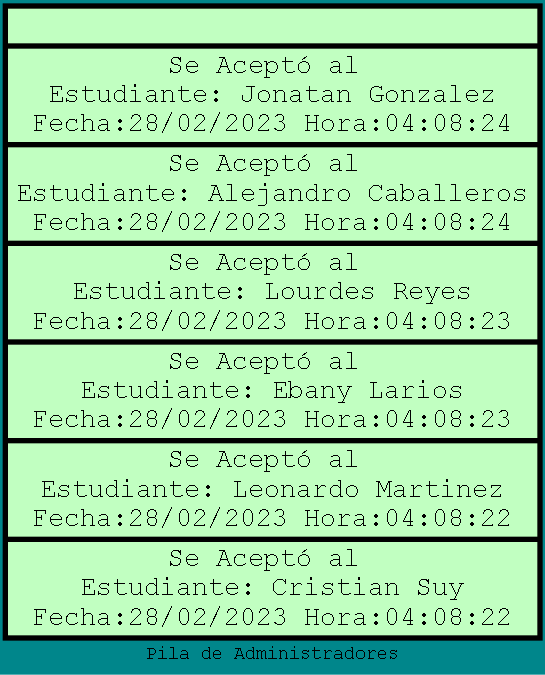
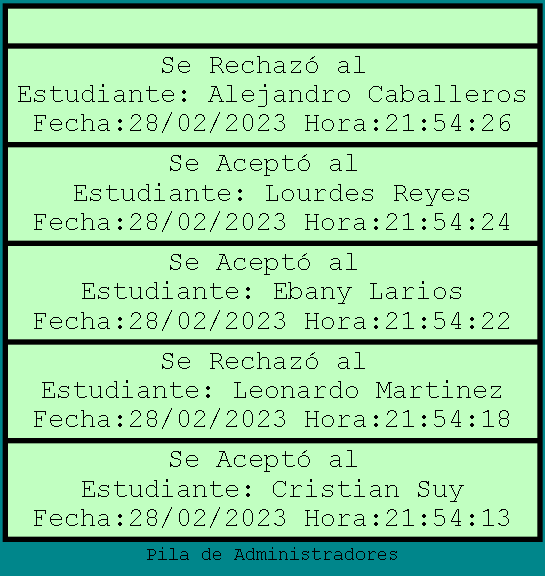
terminando reporte de Lista D Enlazada

Changed region(s): [[0.0, 0.0625, 0.9982, 1.0], [0.0, 0.0, 0.9982, 0.0312]]

diff --git a/EDD_Proyecto1_Fase1/Code/Structs/DoubleList.go b/EDD_Proyecto1_Fase1/Code/Structs/DoubleList.go
@@ -124,7 +124,6 @@ func ContenidoPila(pila *PilaStudent) string {
 			aux = aux.siguiente
 		}
 	} else {
-		content = "|       |"
 	}
 	return content
 
@@ -198,22 +197,23 @@ func GenerarJson(lista *DoubleList) {
 	EscribirArchivoJson(contenido)
 }
 
-func (l *DoubleList) GraficarListaDoble() string {
-
+func (l *DoubleList) GraficarListaDobleConPila() string {
 	texto := "digraph lista{\n"
 	texto += "fontname=\"Courier New\";\n"
 	texto += "fontsize=\"20pt\";\n"
-	texto += "label = \"Reporte Estudiantes en el Sistema\";\n"
 	texto += "bgcolor=\"paleturquoise\";\n"
-	texto += "{rank=same;\n"
 	texto += "node[shape=folder ,fontsize=\"20pt\",penwidth=4,fontname=\"Courier New\",style=\"filled\",fillcolor=\"lavenderblush1\" ]; \n"
 
 	aux := l.Inicio
-	aux2 := l.Inicio.pila.Primero
+
+	textogg := "{rank = same "
 	for i := 0; i < l.Longitud; i++ {
 		texto = texto + "nodo" + strconv.Itoa(i) + " [label=\"" + aux.studentt.FirstName + " " + aux.studentt.LastName + " \\n " + aux.studentt.Carnet + "\"];\n"
 		aux = aux.siguiente
+		textogg = textogg + "nodo" + strconv.Itoa(i) + ";"
+
 	}
+	texto += textogg + "};\n"
 
 	for j := 0; j < l.Longitud-1; j++ {
 		texto += "nodo" + strconv.Itoa(j) + "->nodo" + strconv.Itoa(j+1) + ";\n"
@@ -223,24 +223,25 @@ func (l *DoubleList) GraficarListaDoble() string {
 		texto += "nodo" + strconv.Itoa(k+1) + "->nodo" + strconv.Itoa(k) + ";\n"
 	}
 
-	texto += "{rank=same;\n"
-	texto += "rankdir=LR;\n"
-	texto += "node[shape=record ,fontsize=\"20pt\",penwidth=4,fontname=\"Courier New\",style=\"filled\",fillcolor=\"lavenderblush1\" ]; \n"
+	aux = l.Inicio
 
 	for m := 0; m < l.Longitud; m++ {
-		texto += "nodeP" + strconv.Itoa(m) + "[label=\"" + "{"
-		for n := 0; n < l.Inicio.pila.Longitud; n++ {
-			texto = texto + "|" + aux2.hora
-
-		}
-		texto += "}\"]; \n"
-		aux2 = aux2.siguiente
+		texto += "subgraph cluster" + strconv.Itoa(m) + "{\n"
+		texto += "pencolor=transparent;\n"
+		texto += "node[shape=folder ,fontsize=\"20pt\",penwidth=4,fontname=\"Courier New\",style=\"filled\",fillcolor=\"lavenderblush1\" ]; \n"
+		texto += "nodo" + strconv.Itoa(m) + ";\n"
+		//texto += "label = \"" + aux.studentt.FirstName + " " + aux.studentt.LastName + "\";\n"
+		texto += "color=blue;\n"
+		texto += "nodo" + strconv.Itoa(m) + "->nodo" + strconv.Itoa(m) + "pila;\n"
+		texto += "nodo" + strconv.Itoa(m) + "pila [label=\" " + ContenidoPilaG(aux.pila) + "\"];\n"
+		texto += "}\n"
+		aux = aux.siguiente
 	}
 
 	texto += "}"
 	texto += "}"
-	texto += "}"
 	return texto
+
 }
 
 func GraficarLD(texto string) {
@@ -250,4 +251,20 @@ func GraficarLD(texto string) {
 	CrearArchivo(nombre_archivo)
 	EscribirArchivo(texto, nombre_archivo)
 	execcute(nombre_imagen, nombre_archivo)
+}
+
+func ContenidoPilaG(pila *PilaStudent) string {
+	content := ""
+	aux := pila.Primero
+	if aux != nil {
+		for aux != nil {
+			content += " | " + aux.hora + " | \\n"
+			content += "_________________" + "\\n "
+			aux = aux.siguiente
+		}
+
+	} else {
+	}
+	return content
+
 }

diff --git a/EDD_Proyecto1_Fase1/Code/main.go b/EDD_Proyecto1_Fase1/Code/main.go
@@ -60,11 +60,11 @@ func Login() {
 	if user == "admin" && pass == "admin" {
 		menuAdmin()
 	} else if studenActual != nil {
-		fmt.Println("Bienvenido ", studenActual.FirstName, " ", studenActual.LastName)
 		menuStudent(studenActual.Carnet, studenActual.FirstName, studenActual.LastName)
+		fmt.Println("Bienvenido ", studenActual.FirstName, " ", studenActual.LastName)
 
 	} else {
-		fmt.Println("Usuario o contraseña incorrecta")
+		fmt.Println("Usuario o contraseña incorrecta :( ")
 	}
 }
 
@@ -181,8 +181,7 @@ func menuReportes() {
 		fmt.Scanln(&op)
 		switch op {
 		case 1:
-
-			Structs.GraficarLD(ListaDobleGlobal.GraficarListaDoble())
+			Structs.GraficarLD(ListaDobleGlobal.GraficarListaDobleConPila())
 			fmt.Println("$: Realizando reporte de estudiantes aceptados... :$")
 		case 2:
 			ColaGlobal.Graficar()
@@ -205,7 +204,7 @@ func miniMenuPendientes() {
 	op := 0
 	for !out {
 		fmt.Println("$:° ° ° ° °  Pendientes : ", ColaGlobal.Longitud, "° ° ° ° °:$")
-		fmt.Print("$: Estudiante actual: ")
+		fmt.Print("$: ")
 		ColaGlobal.MostrarPrimero2()
 		fmt.Println("$:° ° °   1. Aceptar Estudiante    ° ° °:$")
 		fmt.Println("$:° ° °   2. Rechazar Estudiante   ° ° °:$")
@@ -215,14 +214,14 @@ func miniMenuPendientes() {
 		fmt.Scanln(&op)
 		switch op {
 		case 1:
-			fmt.Println("$: Aceptando Estudiante... :$")
 			PilaAdminGlobal.Puush("Se Aceptó al \n \\nEstudiante: " + ColaGlobal.MostrarPrimero().FirstName + " " + ColaGlobal.MostrarPrimero().LastName + "\\n" + fecha())
 			//ListaDobleGlobal.InsertarOrdenado(ColaGlobal.MostrarPrimero())
+			fmt.Println("$: Aceptando al Estudiante:  " + ColaGlobal.MostrarPrimero().FirstName + " " + ColaGlobal.MostrarPrimero().LastName + " :$")
 			ListaDobleGlobal.InsertionOrdenado(ColaGlobal.MostrarPrimero())
 			ColaGlobal.Descolar()
 		case 2:
-			fmt.Println("$: Rechazando Estudiante... :$")
 			PilaAdminGlobal.Puush("Se Rechazó al \n \\nEstudiante: " + ColaGlobal.MostrarPrimero().FirstName + " " + ColaGlobal.MostrarPrimero().LastName + "\\n" + fecha())
+			fmt.Println("$: Rechazando al  Estudiante: " + ColaGlobal.MostrarPrimero().FirstName + " " + ColaGlobal.MostrarPrimero().LastName + " :$")
 			ColaGlobal.Descolar()
 		case 3:
 			fmt.Println("$: Regresando al menú principal... :$")
